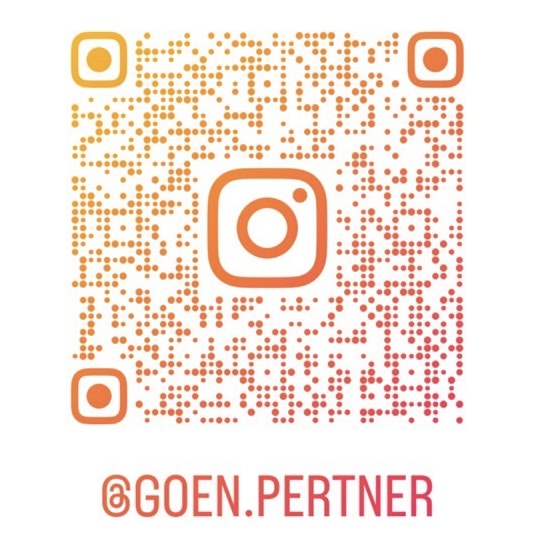
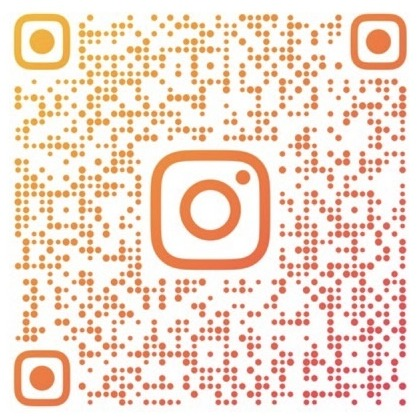
QR表示を縮小・サイズ統一、電話番号を読みやすいフォントに
- Instagram QR画像から「@GOEN.PERTNER」のテキストを自動クロップで除去し
  LINE QRとサイズ感を統一
- QRカードを小さく中央配置（max-width 320px）、@goen.pertnerの
  キャプションも削除
- 電話番号の表示にHiragino/Yu Gothic等の読みやすいサンセリフを適用
  （tabular-numsで数字幅を揃える）。フッターもwrapping用 .tel クラスを付与

https://claude.ai/code/session_01Pwiy5eWM9ZXRFxNazME3tw

diff --git a/assets/css/style.css b/assets/css/style.css
@@ -399,33 +399,40 @@ button { font-family: inherit; cursor: pointer; border: none; background: none; 
 }
 .social-row a:hover { background: var(--blush); }
 .qr-row {
-  display: grid; grid-template-columns: 1fr 1fr; gap: 18px; margin-top: 16px;
+  display: grid; grid-template-columns: 1fr 1fr; gap: 12px;
+  max-width: 320px; margin: 18px auto 0;
 }
 .qr {
   background: var(--white); border: 1px solid var(--line-soft);
-  border-radius: 12px; padding: 14px; text-align: center;
-  box-shadow: 0 10px 26px -22px rgba(120,80,70,.5);
+  border-radius: 10px; padding: 10px; text-align: center;
+  box-shadow: 0 8px 22px -20px rgba(120,80,70,.5);
 }
 .qr img {
   width: 100%; height: auto; aspect-ratio: 1; object-fit: contain;
-  border-radius: 6px; display: block; margin: 0 auto 10px;
+  border-radius: 4px; display: block; margin: 0 auto 6px;
   background: #fff;
 }
 .qr figcaption {
-  font-size: .82rem; letter-spacing: .14em; color: var(--rose-dark);
-  line-height: 1.6;
-}
-.qr__handle {
-  font-family: var(--serif-en); font-style: italic;
-  font-size: .78rem; letter-spacing: .04em; color: var(--gold-dark);
+  font-size: .75rem; letter-spacing: .12em; color: var(--rose-dark);
+  line-height: 1.4;
 }
 .qr-note {
-  font-size: .78rem; color: var(--ink-soft); text-align: center;
-  margin-top: 14px; letter-spacing: .04em;
+  font-size: .76rem; color: var(--ink-soft); text-align: center;
+  margin-top: 12px; letter-spacing: .04em;
 }
 @media (max-width: 380px) {
-  .qr-row { grid-template-columns: 1fr; max-width: 240px; margin-inline: auto; }
+  .qr-row { max-width: 220px; }
 }
+
+/* Readable phone / contact-number style */
+.contact-line span b,
+.tel {
+  font-family: "Hiragino Sans", "Yu Gothic UI", "Yu Gothic", "Meiryo", -apple-system, system-ui, "Helvetica Neue", sans-serif;
+  font-style: normal; font-weight: 500;
+  letter-spacing: .04em;
+  font-variant-numeric: tabular-nums;
+}
+.contact-line span b { font-size: 1.18rem; color: var(--ink); }
 
 .form {
   background: var(--white); border: 1px solid var(--line-soft);

diff --git a/contact.html b/contact.html
@@ -85,8 +85,8 @@
               <figcaption>LINE公式</figcaption>
             </figure>
             <figure class="qr">
-              <img src="assets/images/qr-instagram.jpg" alt="Instagram QRコード（@goen.pertner）" loading="lazy">
-              <figcaption>Instagram<br><span class="qr__handle">@goen.pertner</span></figcaption>
+              <img src="assets/images/qr-instagram.jpg" alt="Instagram QRコード" loading="lazy">
+              <figcaption>Instagram</figcaption>
             </figure>
           </div>
           <p class="qr-note">QRコードをスマートフォンで読み取ってフォローしてください。</p>
@@ -184,7 +184,7 @@
       <div>
         <h4>お問い合わせ</h4>
         <ul>
-          <li>TEL：070-7603-5050</li>
+          <li>TEL：<span class="tel">070-7603-5050</span></li>
           <li><a href="mailto:info@goen-partner.com">info@goen-partner.com</a></li>
           <li><a href="https://www.goen-example.jp">www.goen-example.jp</a></li>
         </ul>

diff --git a/about.html b/about.html
@@ -152,7 +152,7 @@
       <div>
         <h4>お問い合わせ</h4>
         <ul>
-          <li>TEL：070-7603-5050</li>
+          <li>TEL：<span class="tel">070-7603-5050</span></li>
           <li><a href="mailto:info@goen-partner.com">info@goen-partner.com</a></li>
           <li><a href="https://www.goen-example.jp">www.goen-example.jp</a></li>
         </ul>

diff --git a/flow.html b/flow.html
@@ -162,7 +162,7 @@
       <div>
         <h4>お問い合わせ</h4>
         <ul>
-          <li>TEL：070-7603-5050</li>
+          <li>TEL：<span class="tel">070-7603-5050</span></li>
           <li><a href="mailto:info@goen-partner.com">info@goen-partner.com</a></li>
           <li><a href="https://www.goen-example.jp">www.goen-example.jp</a></li>
         </ul>

diff --git a/index.html b/index.html
@@ -212,7 +212,7 @@
       <div>
         <h4>お問い合わせ</h4>
         <ul>
-          <li>TEL：070-7603-5050</li>
+          <li>TEL：<span class="tel">070-7603-5050</span></li>
           <li><a href="mailto:info@goen-partner.com">info@goen-partner.com</a></li>
           <li><a href="https://www.goen-example.jp">www.goen-example.jp</a></li>
         </ul>

diff --git a/price.html b/price.html
@@ -168,7 +168,7 @@
       <div>
         <h4>お問い合わせ</h4>
         <ul>
-          <li>TEL：070-7603-5050</li>
+          <li>TEL：<span class="tel">070-7603-5050</span></li>
           <li><a href="mailto:info@goen-partner.com">info@goen-partner.com</a></li>
           <li><a href="https://www.goen-example.jp">www.goen-example.jp</a></li>
         </ul>
